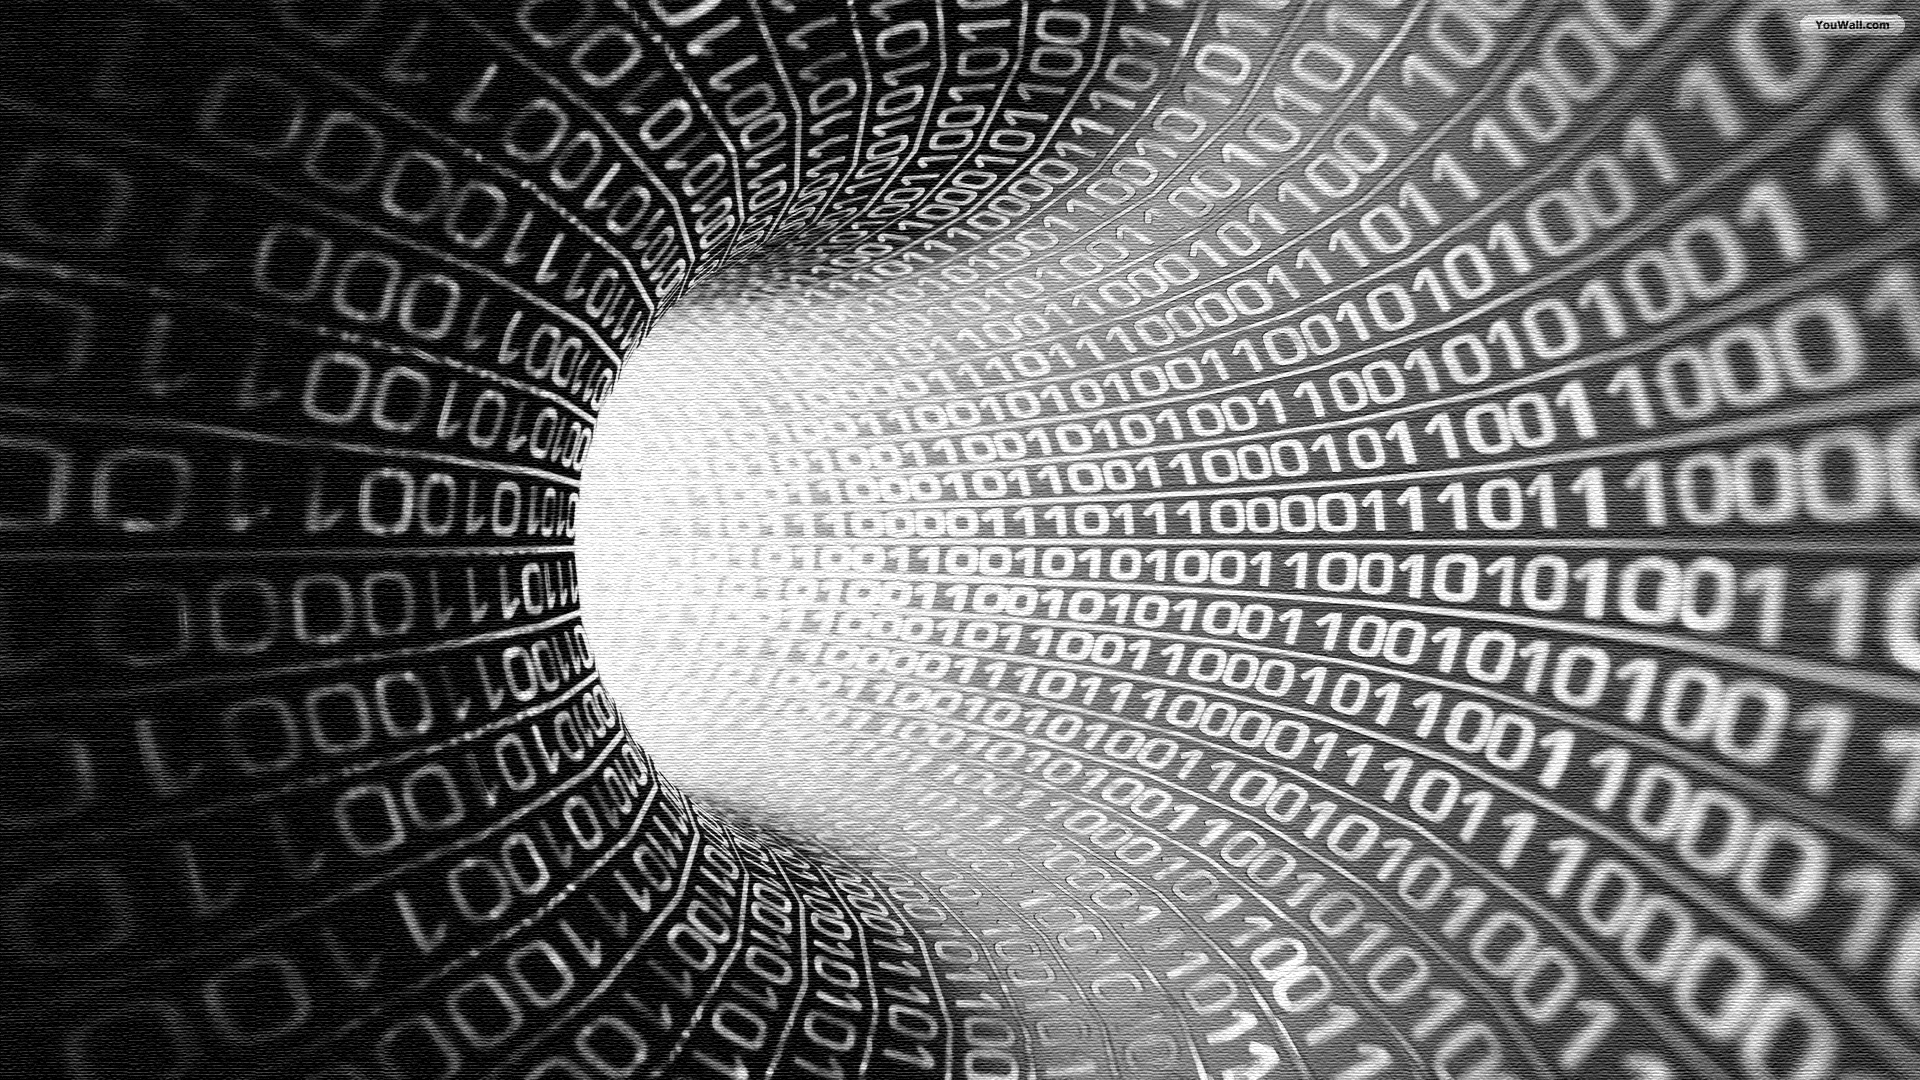
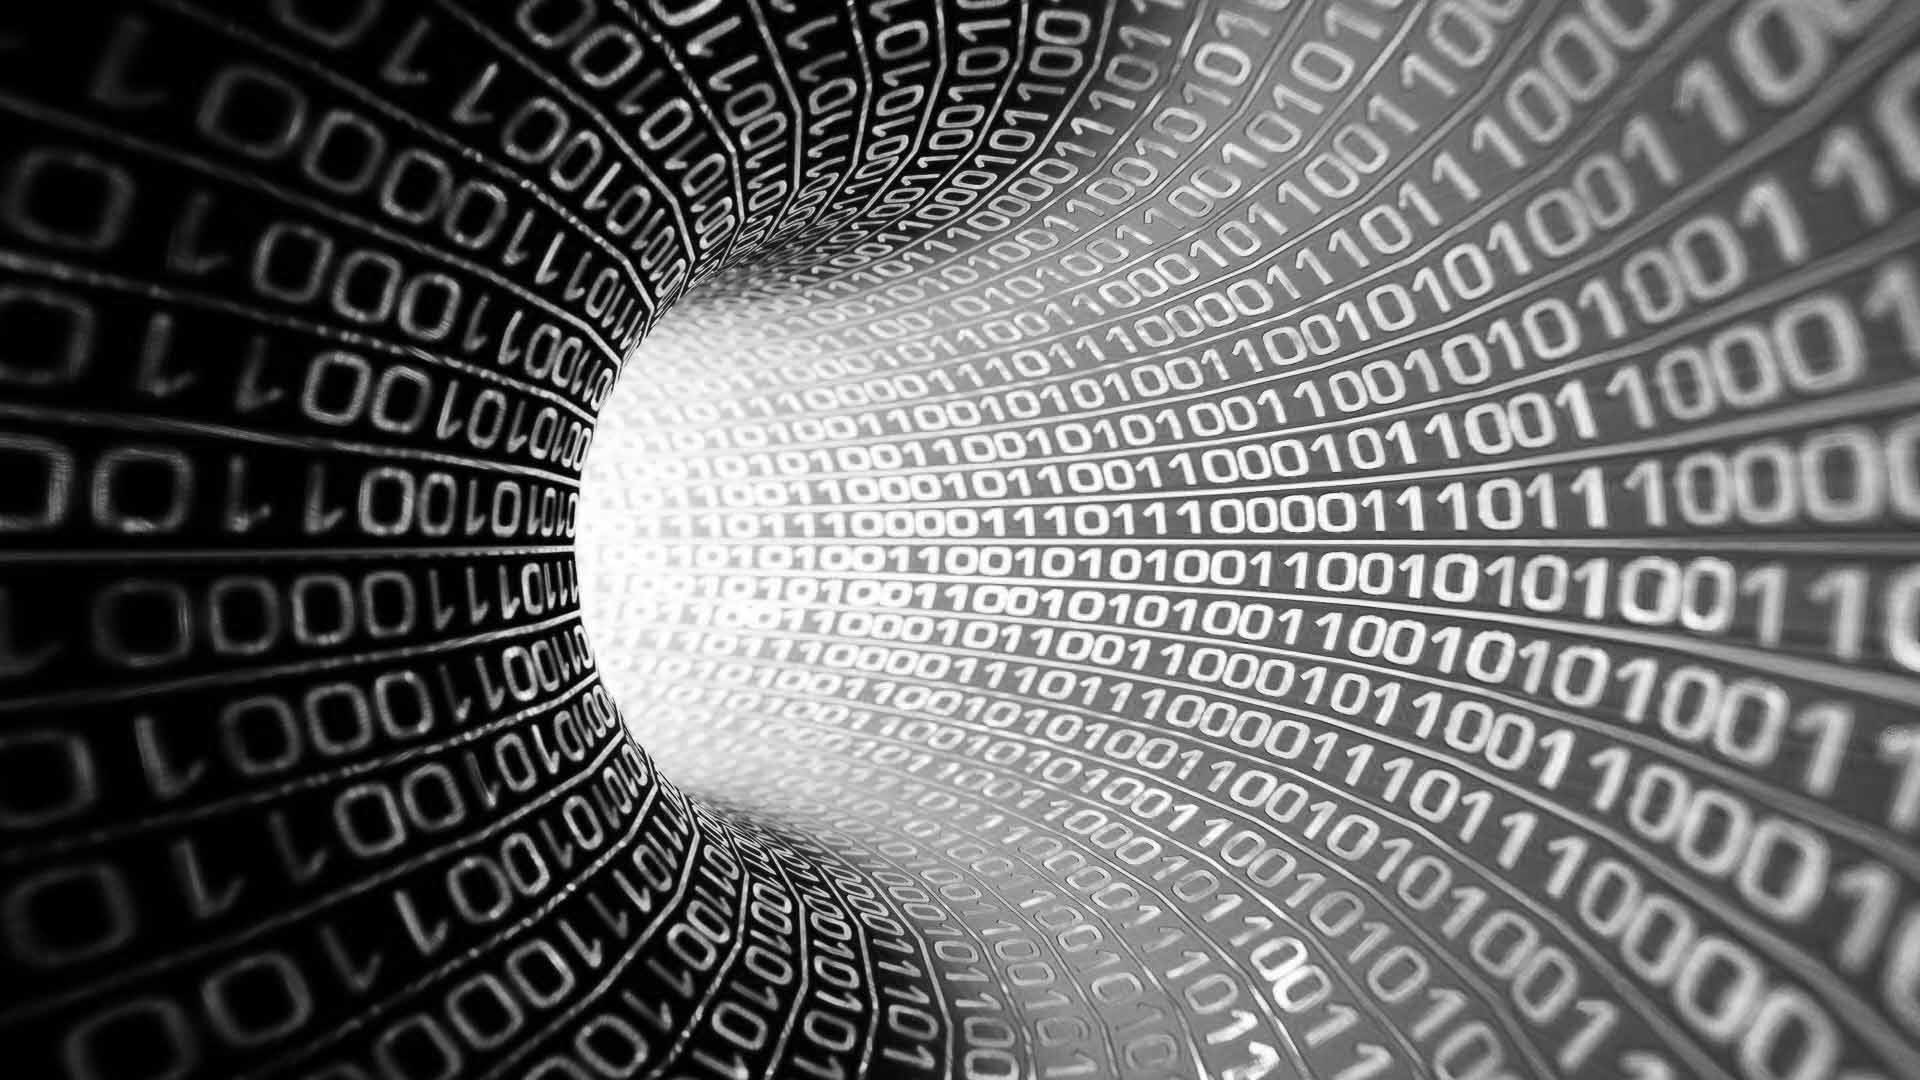
Reduced background image size.

diff --git a/public/stylesheets/style.css b/public/stylesheets/style.css
@@ -124,16 +124,14 @@ textarea {
 hr {
   border: solid 1px #0a1d0a;
 }
-a {
+a,
+a:visited {
   color: #aee4ae;
   text-decoration: none;
   -webkit-transition: color 15s linear;
   -moz-transition: color 15s linear;
   -o-transition: color 15s linear;
   transition: color 15s linear;
-}
-a:visited {
-  color: #74d174;
 }
 a:hover {
   text-decoration: underline;
@@ -211,11 +209,9 @@ a:hover {
 .borderColor0 {
   border-color: #1d0a0a !important;
 }
-a.linkColor0 {
-  color: #e4aeae;
-}
+a.linkColor0,
 a.linkColor0:visited {
-  color: #d17474;
+  color: #e4aeae;
 }
 .containerColor0 {
   background-color: #df9f9f !important;
@@ -238,11 +234,9 @@ a.linkColor0:visited {
 .borderColor1 {
   border-color: #1d130a !important;
 }
-a.linkColor1 {
-  color: #e4c9ae;
-}
+a.linkColor1,
 a.linkColor1:visited {
-  color: #d1a374;
+  color: #e4c9ae;
 }
 .containerColor1 {
   background-color: #dfbf9f !important;
@@ -265,11 +259,9 @@ a.linkColor1:visited {
 .borderColor2 {
   border-color: #1d1d0a !important;
 }
-a.linkColor2 {
-  color: #e4e4ae;
-}
+a.linkColor2,
 a.linkColor2:visited {
-  color: #d1d174;
+  color: #e4e4ae;
 }
 .containerColor2 {
   background-color: #dfdf9f !important;
@@ -292,11 +284,9 @@ a.linkColor2:visited {
 .borderColor3 {
   border-color: #131d0a !important;
 }
-a.linkColor3 {
-  color: #c9e4ae;
-}
+a.linkColor3,
 a.linkColor3:visited {
-  color: #a3d174;
+  color: #c9e4ae;
 }
 .containerColor3 {
   background-color: #bfdf9f !important;
@@ -319,11 +309,9 @@ a.linkColor3:visited {
 .borderColor4 {
   border-color: #0a1d0a !important;
 }
-a.linkColor4 {
-  color: #aee4ae;
-}
+a.linkColor4,
 a.linkColor4:visited {
-  color: #74d174;
+  color: #aee4ae;
 }
 .containerColor4 {
   background-color: #9fdf9f !important;
@@ -346,11 +334,9 @@ a.linkColor4:visited {
 .borderColor5 {
   border-color: #0a1d13 !important;
 }
-a.linkColor5 {
-  color: #aee4c9;
-}
+a.linkColor5,
 a.linkColor5:visited {
-  color: #74d1a3;
+  color: #aee4c9;
 }
 .containerColor5 {
   background-color: #9fdfbf !important;
@@ -373,11 +359,9 @@ a.linkColor5:visited {
 .borderColor6 {
   border-color: #0a1d1d !important;
 }
-a.linkColor6 {
-  color: #aee4e4;
-}
+a.linkColor6,
 a.linkColor6:visited {
-  color: #74d1d1;
+  color: #aee4e4;
 }
 .containerColor6 {
   background-color: #9fdfdf !important;
@@ -400,11 +384,9 @@ a.linkColor6:visited {
 .borderColor7 {
   border-color: #0a131d !important;
 }
-a.linkColor7 {
-  color: #aec9e4;
-}
+a.linkColor7,
 a.linkColor7:visited {
-  color: #74a3d1;
+  color: #aec9e4;
 }
 .containerColor7 {
   background-color: #9fbfdf !important;
@@ -427,11 +409,9 @@ a.linkColor7:visited {
 .borderColor8 {
   border-color: #0a0a1d !important;
 }
-a.linkColor8 {
-  color: #aeaee4;
-}
+a.linkColor8,
 a.linkColor8:visited {
-  color: #7474d1;
+  color: #aeaee4;
 }
 .containerColor8 {
   background-color: #9f9fdf !important;
@@ -454,11 +434,9 @@ a.linkColor8:visited {
 .borderColor9 {
   border-color: #130a1d !important;
 }
-a.linkColor9 {
-  color: #c9aee4;
-}
+a.linkColor9,
 a.linkColor9:visited {
-  color: #a374d1;
+  color: #c9aee4;
 }
 .containerColor9 {
   background-color: #bf9fdf !important;
@@ -481,11 +459,9 @@ a.linkColor9:visited {
 .borderColor10 {
   border-color: #1d0a1d !important;
 }
-a.linkColor10 {
-  color: #e4aee4;
-}
+a.linkColor10,
 a.linkColor10:visited {
-  color: #d174d1;
+  color: #e4aee4;
 }
 .containerColor10 {
   background-color: #df9fdf !important;
@@ -508,11 +484,9 @@ a.linkColor10:visited {
 .borderColor11 {
   border-color: #1d0a13 !important;
 }
-a.linkColor11 {
-  color: #e4aec9;
-}
+a.linkColor11,
 a.linkColor11:visited {
-  color: #d174a3;
+  color: #e4aec9;
 }
 .containerColor11 {
   background-color: #df9fbf !important;
